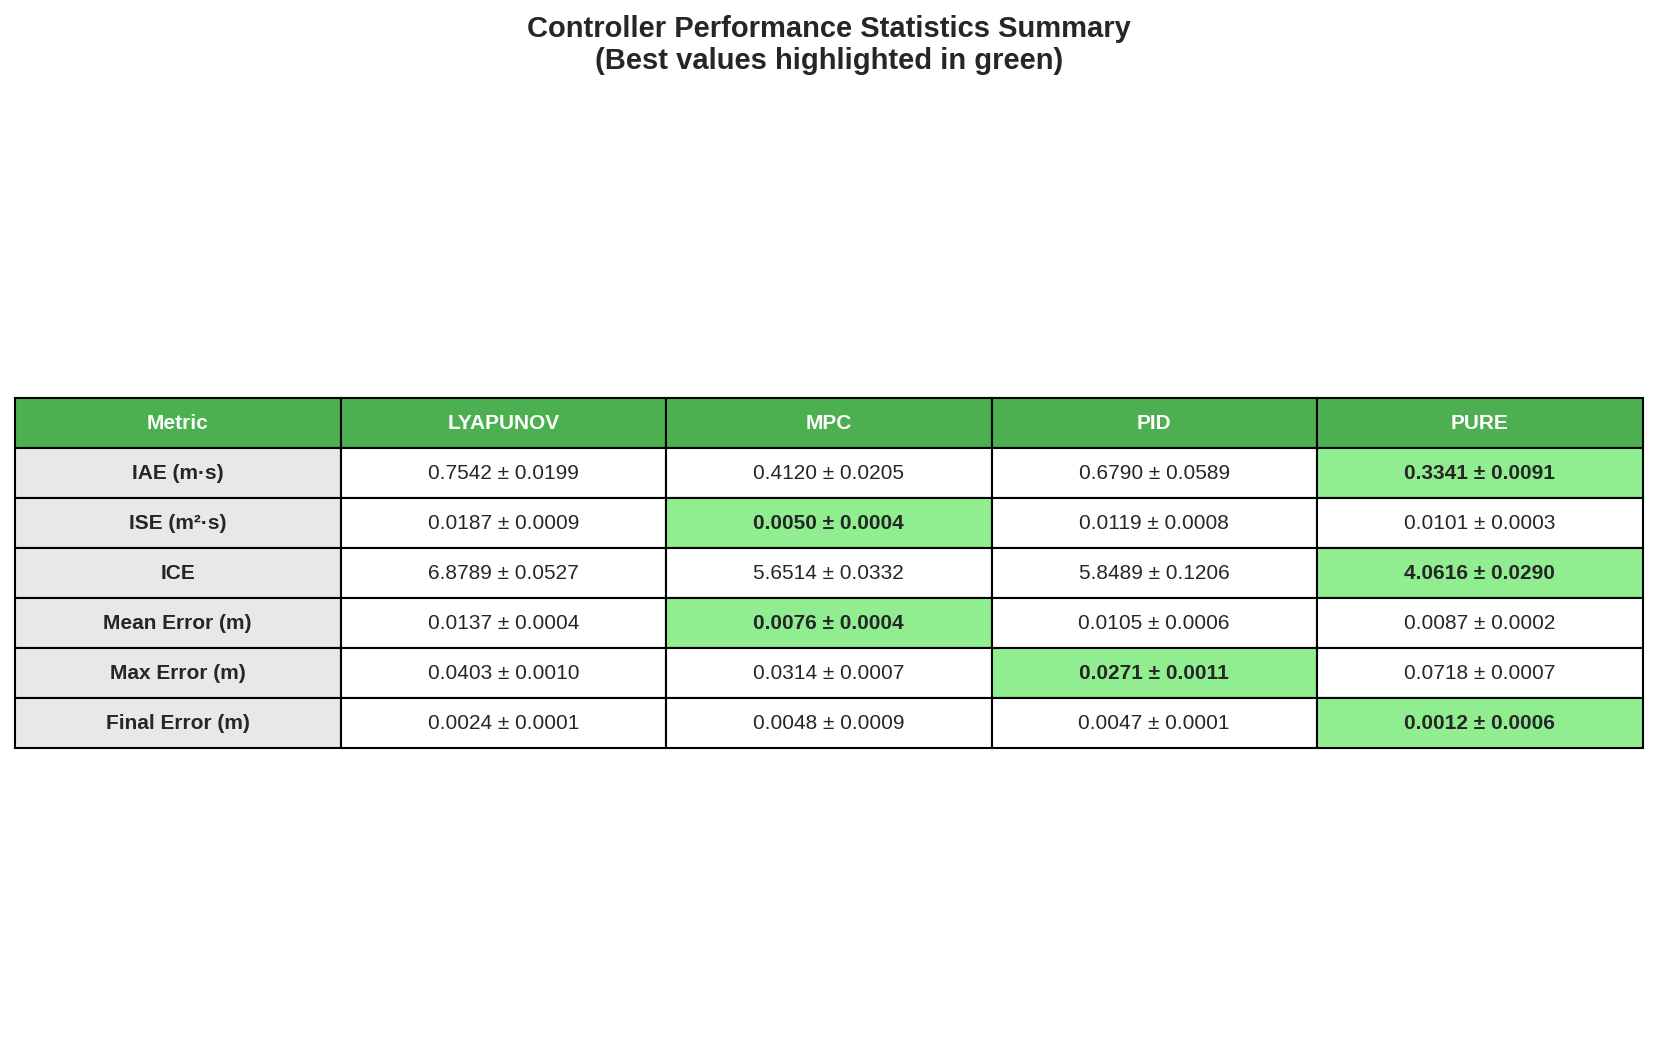
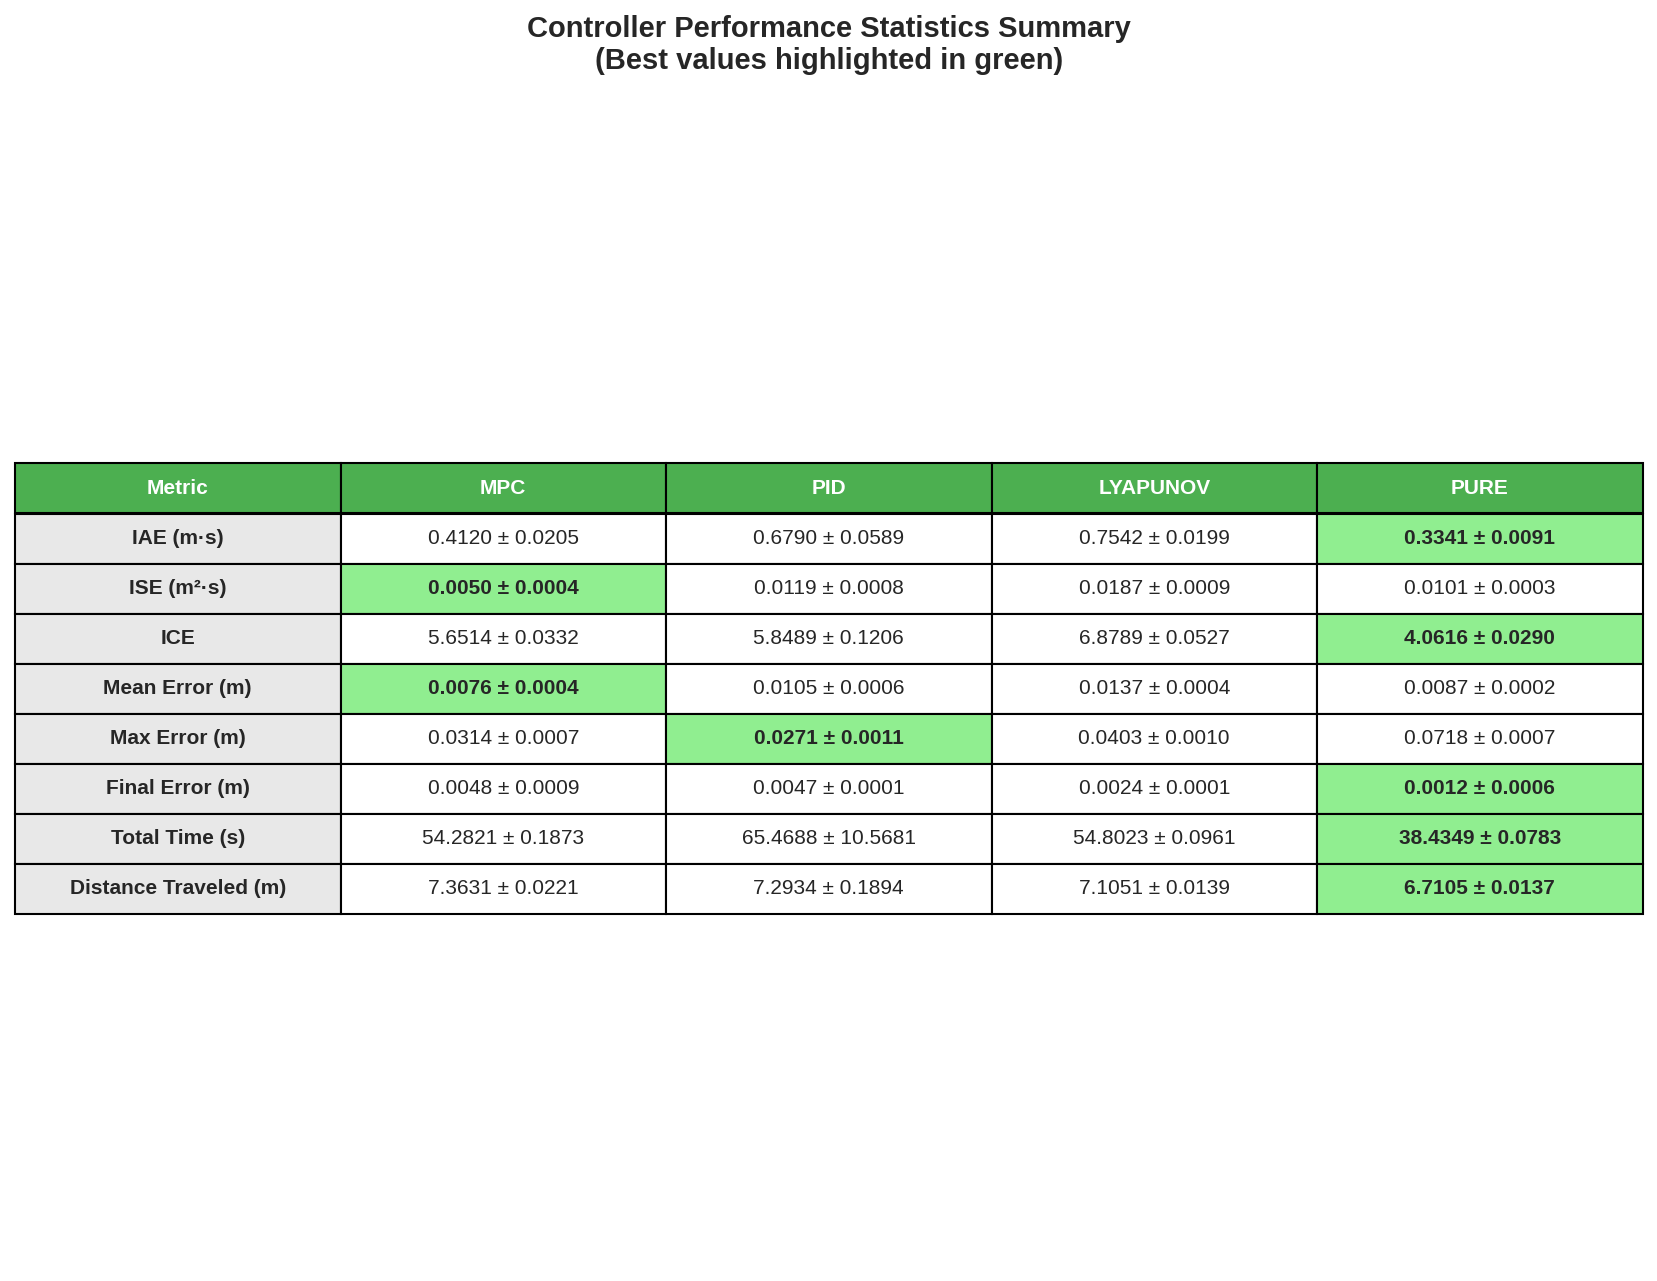
Add time and distance metrics to statistics table and remove dead time from performance charts
CHANGES TO generate_performance_charts.py:
1. Added dead time removal in plot_individual_controller():
   - Detects last point with significant movement (velocity > 0.01 m/s or angular velocity > 0.05 rad/s)
   - Adds 5% buffer or 10 samples after last active point
   - Results in cleaner, more focused performance visualizations

2. Added distance_traveled metric calculation:
   - Computes integral of velocity over time
   - Tracks actual path length traveled by robot

3. Enhanced statistics table with new metrics:
   - Total Time (s): Complete execution time
   - Distance Traveled (m): Actual distance covered
   - Both metrics now appear in controller_statistics_table.png

4. Increased figure size for statistics table (14x10) to accommodate new rows

REGENERATED CHARTS:
- controller_statistics_table.png: Now includes time and distance metrics
- All performance charts: Dead time removed for better visualization
- Individual controller charts updated with cleaner time ranges

BENEFITS:
- Statistics table provides complete performance picture
- Performance charts focus on active control period
- Better visual representation of controller behavior
- Easier comparison of trajectory efficiency

Example files updated:
- pid_run_20251101_143254_performance.png
- lyapunov_20251101_152420_performance.png
- mpc_20251101_161158_performance.png
- pure_20251101_165557_performance.png

Changed region(s): [[0.0, 0.3352, 1.0, 0.7314], [0.3078, 0.0, 0.6771, 0.0914]]

diff --git a/generate_performance_charts.py b/generate_performance_charts.py
@@ -41,6 +41,21 @@ def plot_individual_controller(csv_file, output_dir='charts'):
     filename = os.path.basename(csv_file)
     controller_name = filename.split('_')[0]
 
+    # Detect and remove dead time (when robot has stopped)
+    # Find the last point where there is significant movement
+    velocity_threshold = 0.01  # m/s
+    error_threshold = 0.01  # m
+
+    # Look for the last index where velocity or error is significant
+    active_indices = (np.abs(df['v']) > velocity_threshold) | (np.abs(df['w']) > 0.05) | (np.abs(df['err']) > error_threshold)
+
+    if active_indices.any():
+        last_active_idx = np.where(active_indices)[0][-1]
+        # Add some buffer (5% of total time or at least 10 samples)
+        buffer = max(10, int(len(df) * 0.05))
+        end_idx = min(len(df), last_active_idx + buffer)
+        df = df.iloc[:end_idx].copy()
+
     # Create figure with subplots
     fig = plt.figure(figsize=(15, 10))
     fig.suptitle(f'Controller Performance: {filename}', fontsize=16, fontweight='bold')
@@ -172,6 +187,9 @@ def generate_summary_comparison(directory_path, output_dir='charts'):
             v = df['v'].values
             w = df['w'].values
 
+            # Calculate distance traveled (integral of velocity magnitude)
+            distance_traveled = np.trapezoid(np.abs(v), t)
+
             metrics = {
                 'IAE': np.trapezoid(np.abs(err), t),
                 'ISE': np.trapezoid(err**2, t),
@@ -179,7 +197,8 @@ def generate_summary_comparison(directory_path, output_dir='charts'):
                 'max_error': np.max(np.abs(err)),
                 'mean_error': np.mean(np.abs(err)),
                 'final_error': np.abs(err[-1]),
-                'total_time': t[-1] - t[0]
+                'total_time': t[-1] - t[0],
+                'distance_traveled': distance_traveled
             }
 
             controller_data[controller_type].append(metrics)
@@ -328,15 +347,15 @@ def generate_statistics_table(controller_stats, output_dir):
         controller_stats (dict): Controller statistics dictionary
         output_dir (str): Directory to save output
     """
-    fig, ax = plt.subplots(figsize=(14, 8))
+    fig, ax = plt.subplots(figsize=(14, 10))
     ax.axis('tight')
     ax.axis('off')
 
     # Prepare table data
     controllers = list(controller_stats.keys())
-    metrics = ['IAE', 'ISE', 'ICE', 'mean_error', 'max_error', 'final_error']
+    metrics = ['IAE', 'ISE', 'ICE', 'mean_error', 'max_error', 'final_error', 'total_time', 'distance_traveled']
     metric_names = ['IAE (m·s)', 'ISE (m²·s)', 'ICE', 'Mean Error (m)',
-                    'Max Error (m)', 'Final Error (m)']
+                    'Max Error (m)', 'Final Error (m)', 'Total Time (s)', 'Distance Traveled (m)']
 
     table_data = []
     table_data.append(['Metric'] + [f'{c.upper()}' for c in controllers])
@@ -367,10 +386,10 @@ def generate_statistics_table(controller_stats, output_dir):
         table[(i, 0)].set_facecolor('#E8E8E8')
         table[(i, 0)].set_text_props(weight='bold')
 
-    # Highlight best values in each row
+    # Highlight best values in each row (lower is better for all metrics)
     for i, metric in enumerate(metrics, start=1):
         means = [controller_stats[c][metric]['mean'] for c in controllers]
-        best_idx = means.index(min(means))  # Lower is better
+        best_idx = means.index(min(means))  # Lower is better for all metrics
         table[(i, best_idx + 1)].set_facecolor('#90EE90')
         table[(i, best_idx + 1)].set_text_props(weight='bold')
 
